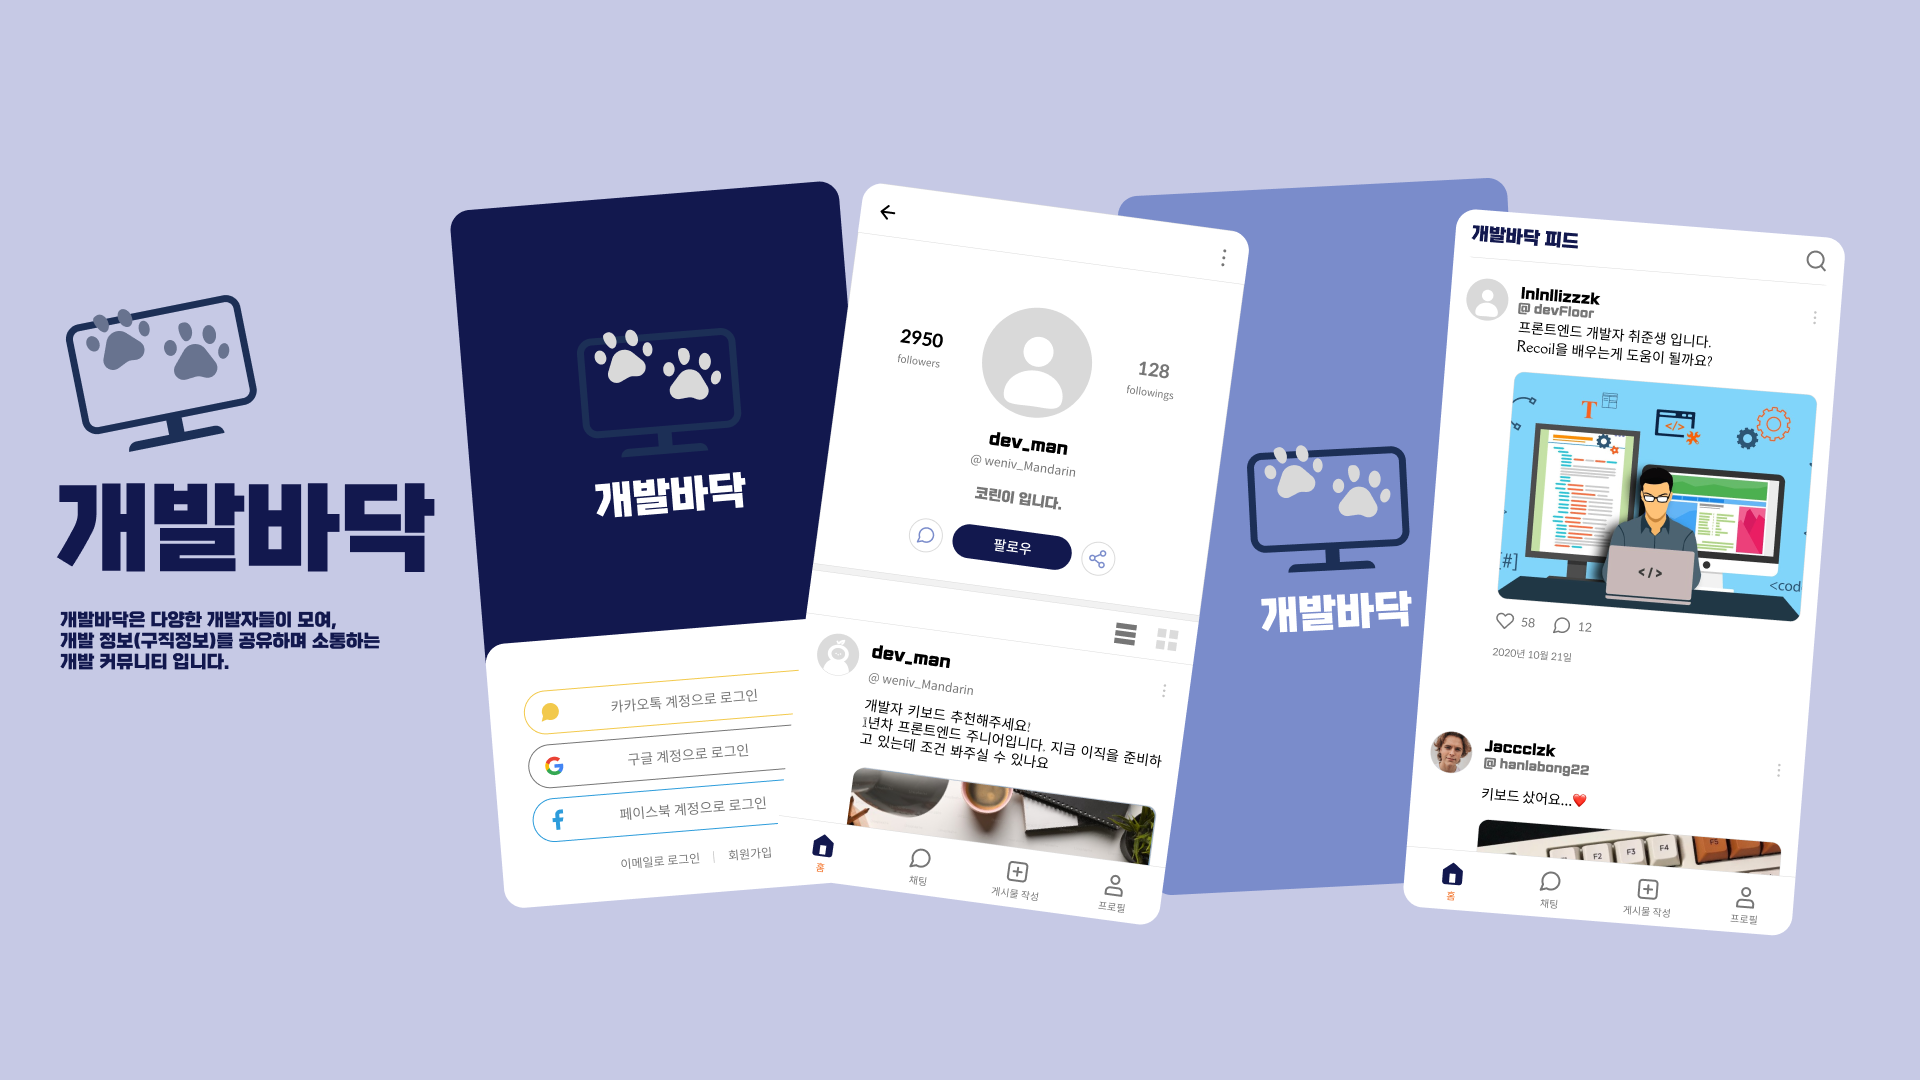
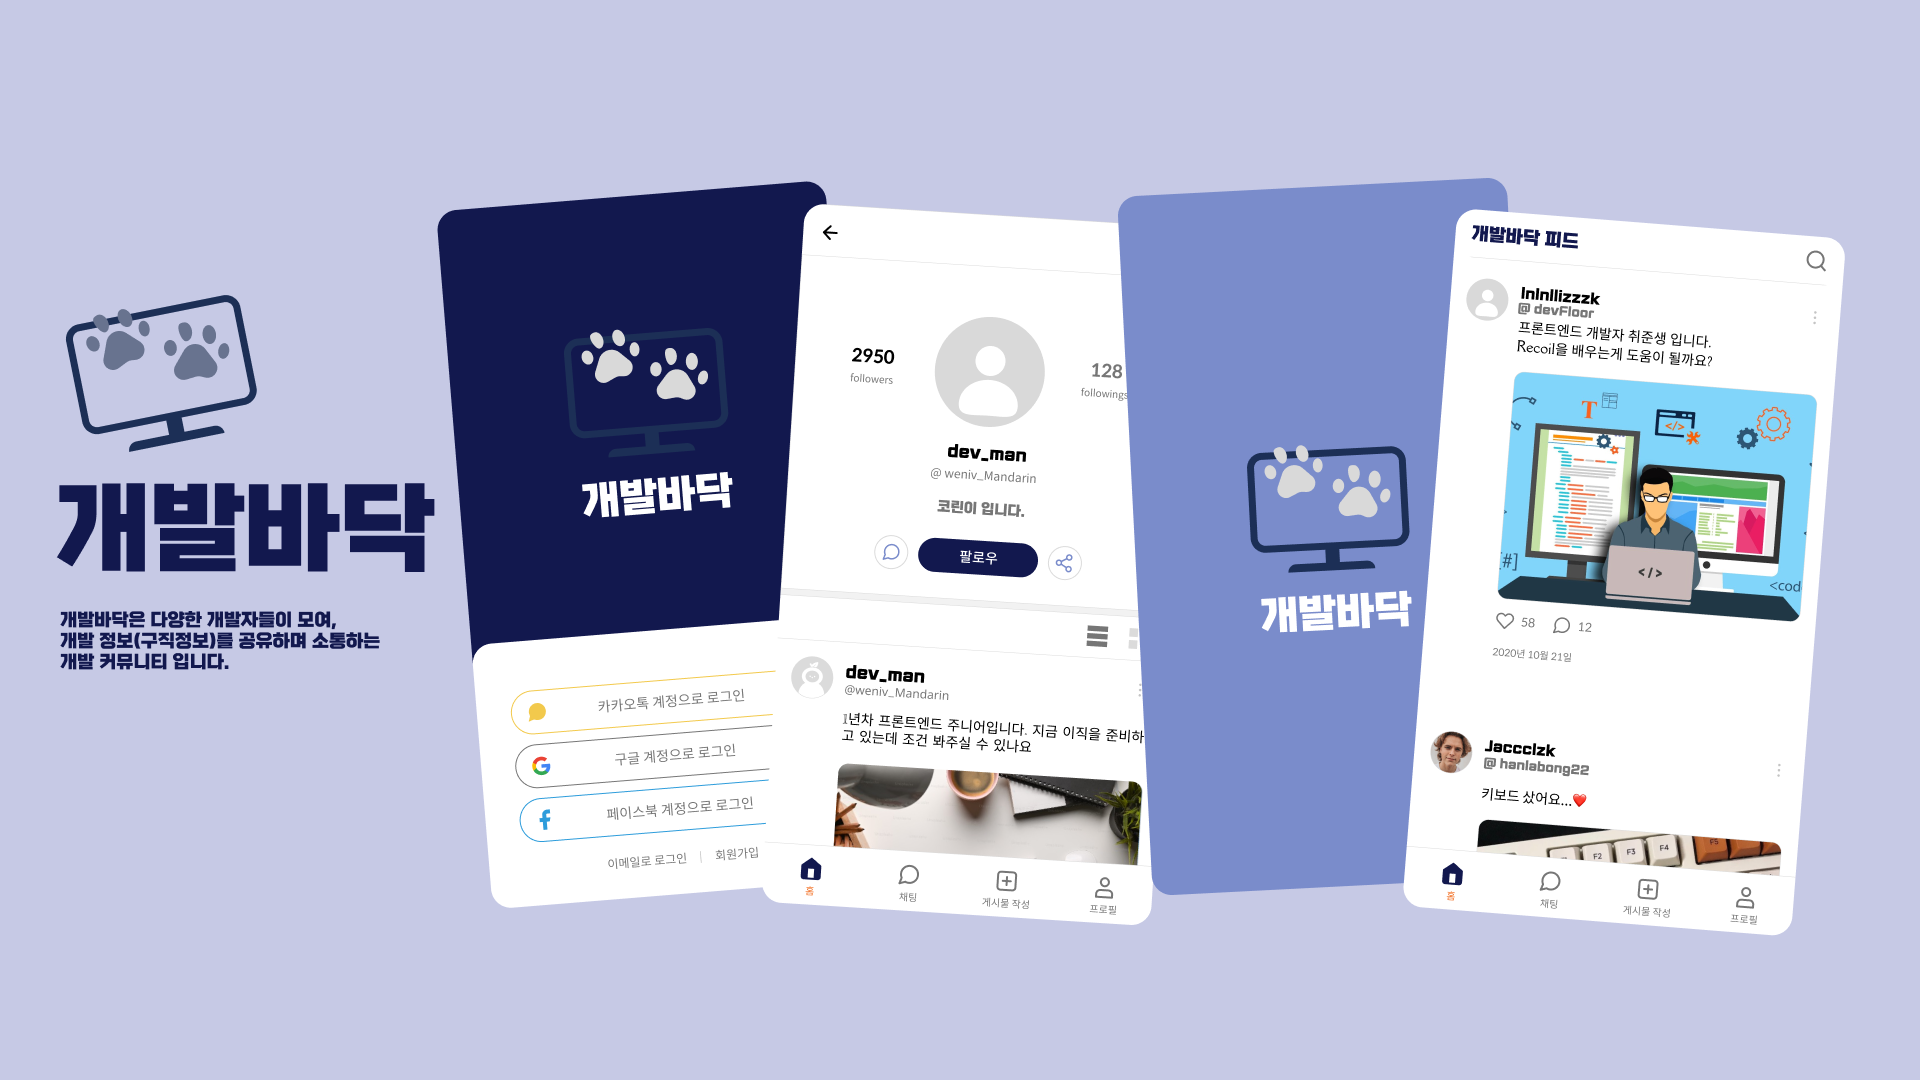
Design: 전체페이지 뒤로가기

Changed region(s): [[0.2188, 0.1528, 0.6562, 0.8556], [0.2812, 0.3056, 0.375, 0.3667]]

diff --git a/src/components/topbar/TopBarBasic.jsx b/src/components/topbar/TopBarBasic.jsx
@@ -3,6 +3,7 @@ import back from "../../assets/images/icon-arrow-left.png";
 import more from "../../assets/images/s-icon-more-vertical.png";
 import { Top } from "./TopBarStyle";
 import SettingLogout from "../modal/LogoutModal";
+import { useNavigate } from "react-router-dom";
 
 export default function TopBar() {
   const [isSetModal, setIsSetModal] = useState(false);
@@ -11,13 +12,18 @@ export default function TopBar() {
   const handleLogoutClick = () => {
     setIsSetModal(true); // 로그아웃 버튼 클릭 시 모달 열기
   }
+  const navigate = useNavigate()
+
+  const handleBack = () => {
+    navigate(-1)
+  }
   
   // const closeModal = () => {
   //   setIsModal(false); // 모달 닫기 함수
   // }
   return (
     <Top>
-      <button>
+      <button onClick={handleBack}>
         <img src={back} alt="" />
       </button>
       <button className='modalBtn' onClick={handleLogoutClick}>

diff --git a/src/pages/chat/Chat.jsx b/src/pages/chat/Chat.jsx
@@ -6,13 +6,18 @@ import profileImg from "../../assets/images/Group 26.png";
 import TabMenu from "../../components/tab/TabMenu";
 
 import { Body, TopBar, Chat1, Chat2, Chat3, Sect1 } from "./ChatStyle";
-import { Link } from "react-router-dom";
+import { Link, useNavigate } from "react-router-dom";
 
 export default function Chat() {
+  const navigate = useNavigate()
+
+  const handleBack = () => {
+    navigate(-1)
+  }
   return (
     <Body>
       <TopBar>
-        <button>
+        <button onClick={handleBack}>
           <img src={back} alt='' />
         </button>
         <button>

diff --git a/src/pages/post/PostWrite.jsx b/src/pages/post/PostWrite.jsx
@@ -34,7 +34,9 @@ export default function PostWrite() {
   const onClickImage = (e) => {
     fileRef.current?.click(e.target.files?.[0]);
   };
-
+  const handleBack = () => {
+    navigate(-1)
+  }
   // 해당 유저 게시글
   const postFetch = async () => {
     try {
@@ -95,7 +97,7 @@ export default function PostWrite() {
   return (
     <Body>
       <Sect1>
-        <button>
+        <button onClick={handleBack}>
           <img src={back} alt='' />
         </button>
         <button

diff --git a/src/components/topbar/TopBarSave.jsx b/src/components/topbar/TopBarSave.jsx
@@ -7,13 +7,13 @@ export default function TopBarSave({ onSave, disabled }) {
   const navigate = useNavigate();
 
   const handleBack = () => {
-    navigate("/myprofile");
+    navigate(-1);
   };
   return (
     <Top>
       <Link to='/myprofile'>
-        <button>
-          <img src={back} alt='' onClick={handleBack} />
+        <button onClick={handleBack}>
+          <img src={back} alt='' />
         </button>
       </Link>
       <button

diff --git a/src/components/topbar/TopBarModify.jsx b/src/components/topbar/TopBarModify.jsx
@@ -7,7 +7,7 @@ export default function TopBarModify({ nameValid, idValid, onEdit }) {
   const navigate = useNavigate();
 
   const handleBack = () => {
-    navigate("/myprofile");
+    navigate(-1);
   };
   return (
     <Top>

diff --git a/src/components/topbar/TopBarFollowing.jsx b/src/components/topbar/TopBarFollowing.jsx
@@ -7,7 +7,7 @@ export default function TopBarFollowings() {
   const navigate = useNavigate();
 
   const handleBack = () => {
-    navigate("/myprofile");
+    navigate(-1);
   };
   return (
     <TopFollowers>

diff --git a/src/components/topbar/TopBarFollowers.jsx b/src/components/topbar/TopBarFollowers.jsx
@@ -7,7 +7,7 @@ export default function TopBar() {
   const navigate = useNavigate();
 
   const handleBack = () => {
-    navigate("/myprofile");
+    navigate(-1);
   };
   return (
     <TopFollowers>

diff --git a/src/pages/post/PostWriteStyle.jsx b/src/pages/post/PostWriteStyle.jsx
@@ -45,6 +45,7 @@ export const Sect2 = styled.div`
       border-radius: 30px;
     }
     .writeBox {
+      width: 100%;
     }
     input {
       font-family: "GongGothicMedium";

diff --git a/README.md b/README.md
@@ -29,7 +29,7 @@
       <td align="center"><a href="https://github.com/geunpyochoi"><img src="https://avatars.githubusercontent.com/u/28581469?v=4" width="100px;" alt=""/><br /><sub><b>FE 팀장 : 최근표</b></sub></a><br /></td>
       <td align="center"><a href="https://github.com/kyokyoYa"><img src="https://avatars.githubusercontent.com/u/138539300?v=4" width="100px;" alt=""/><br /><sub><b>FE 팀원 : 최현우</b></sub></a><br /></td>
       <td align="center"><a href="https://github.com/leeheezin"><img src="https://avatars.githubusercontent.com/u/102892982?v=4" width="100px;" alt=""/><br /><sub><b>FE 팀원 : 이희진</b></sub></a><br /></td>
-      <td align="center"><a href="https://github.com/dpfka97"><img src="https://avatars.githubusercontent.com/u/138556222?v=4" width="100px;" alt=""/><br /><sub><b>FE 팀원 : 이예람</b><ㄴㄴ/sub></a><br /></td>
+      <td align="center"><a href="https://github.com/dpfka97"><img src="https://avatars.githubusercontent.com/u/138556222?v=4" width="100px;" alt=""/><br /><sub><b>FE 팀원 : 이예람</b></sub></a><br /></td>
     </tr>
   </tbody>
 </table>
@@ -72,6 +72,7 @@
     <img src="https://img.shields.io/badge/VSCode-007ACC?style=for-the-badge&logo=Visual%20Studio%20Code&logoColor=white"/>&nbsp
 </tr>
 </table>
+<br>
 
 - **Recoil**을 택한 이유
 1. 편리한 비동기 처리
@@ -90,7 +91,7 @@
 - 유저정보의 지속성을 위해 사용한 recoil-Persist
 - recoil은 기본적으로 새로고침 또는 컴포넌트 언마운트 시 상태가 초기화되지만, recoil-persist를 사용하면서 세션 스토리지에 저장하여 지속성을 유지하였습니다.
 
-    <br><br>
+    <br>
 - axios 라이브러리 활용
   - 비동기로 HTTP 통신을 할 수 있어 return을 promise 객체로 해주기 때문에 response 데이터를 쉽게 다루기 위해 사용하였습니다.
   - Promise 기반의 API를 제공하여 비동기적인 방식으로 HTTP 요청을 처리하였습니다.
@@ -99,17 +100,18 @@
 
 - **Styled-components**을 택한 이유
     - 컴포넌트를 기반으로 스타일링 할 수 있어 재사용 할 수 있고, 코드 가독성과 유지보수성을 위해 사용했습니다.
-
+<br>
+<br>
 ## 4. 구현 기능 및 역할
 ### [구현 기능]
-- **🙂 Account**
+- **🔑Account**
 
   - 로그인/로그아웃
   - 로그인/ 회원가입/프로필 유효성 검사
   - 회원가입 진행
   - 프로필 정보 설정
 
-- **✍ Post**
+- **📄 Post**
   - 게시글 등록/수정/삭제
   - 모달창
   - 이미지 1장 업로드
@@ -118,11 +120,11 @@
   - 게시글 상세페이지
   <!-- - 팔로잉 게시글 목록 -->
 
-- **✍ Product**
+- **🛒 Product**
     - 상품 등록
     - 상품 삭제
 
-- **📢 Commemt**
+- **⌨ Commemt**
 
   - 댓글 등록/수정/삭제
 
@@ -130,14 +132,14 @@
 
   - 유저 검색
 
-- **🌹 Profile**
+- **👨💼 Profile**
 
   - 개인 프로필/프로필 유효성 검사
   - 프로필 수정
   - 팔로우/언팔로우
   - 팔로우/팔로잉 리스트
 
-- **♥ Like**
+- **❤ Like**
 
   - 게시물 좋아요 및 취소
 
